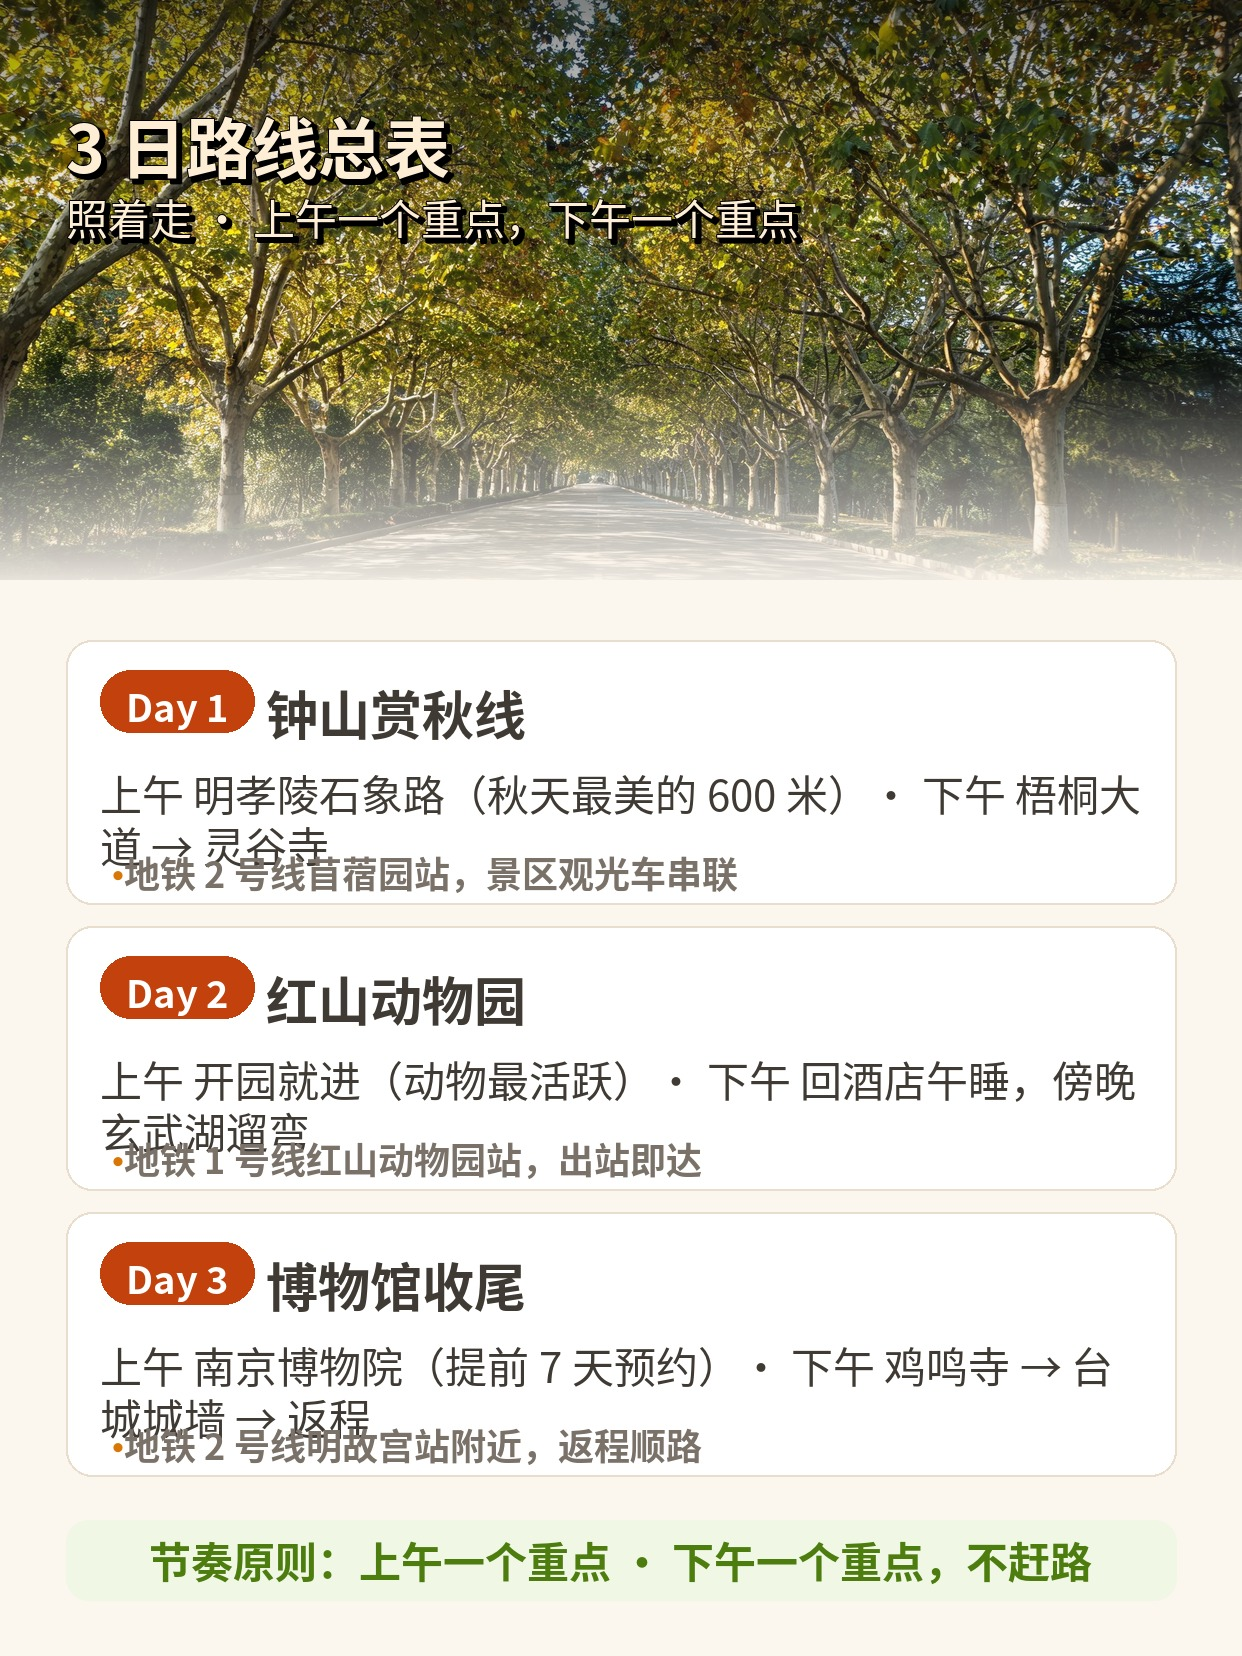
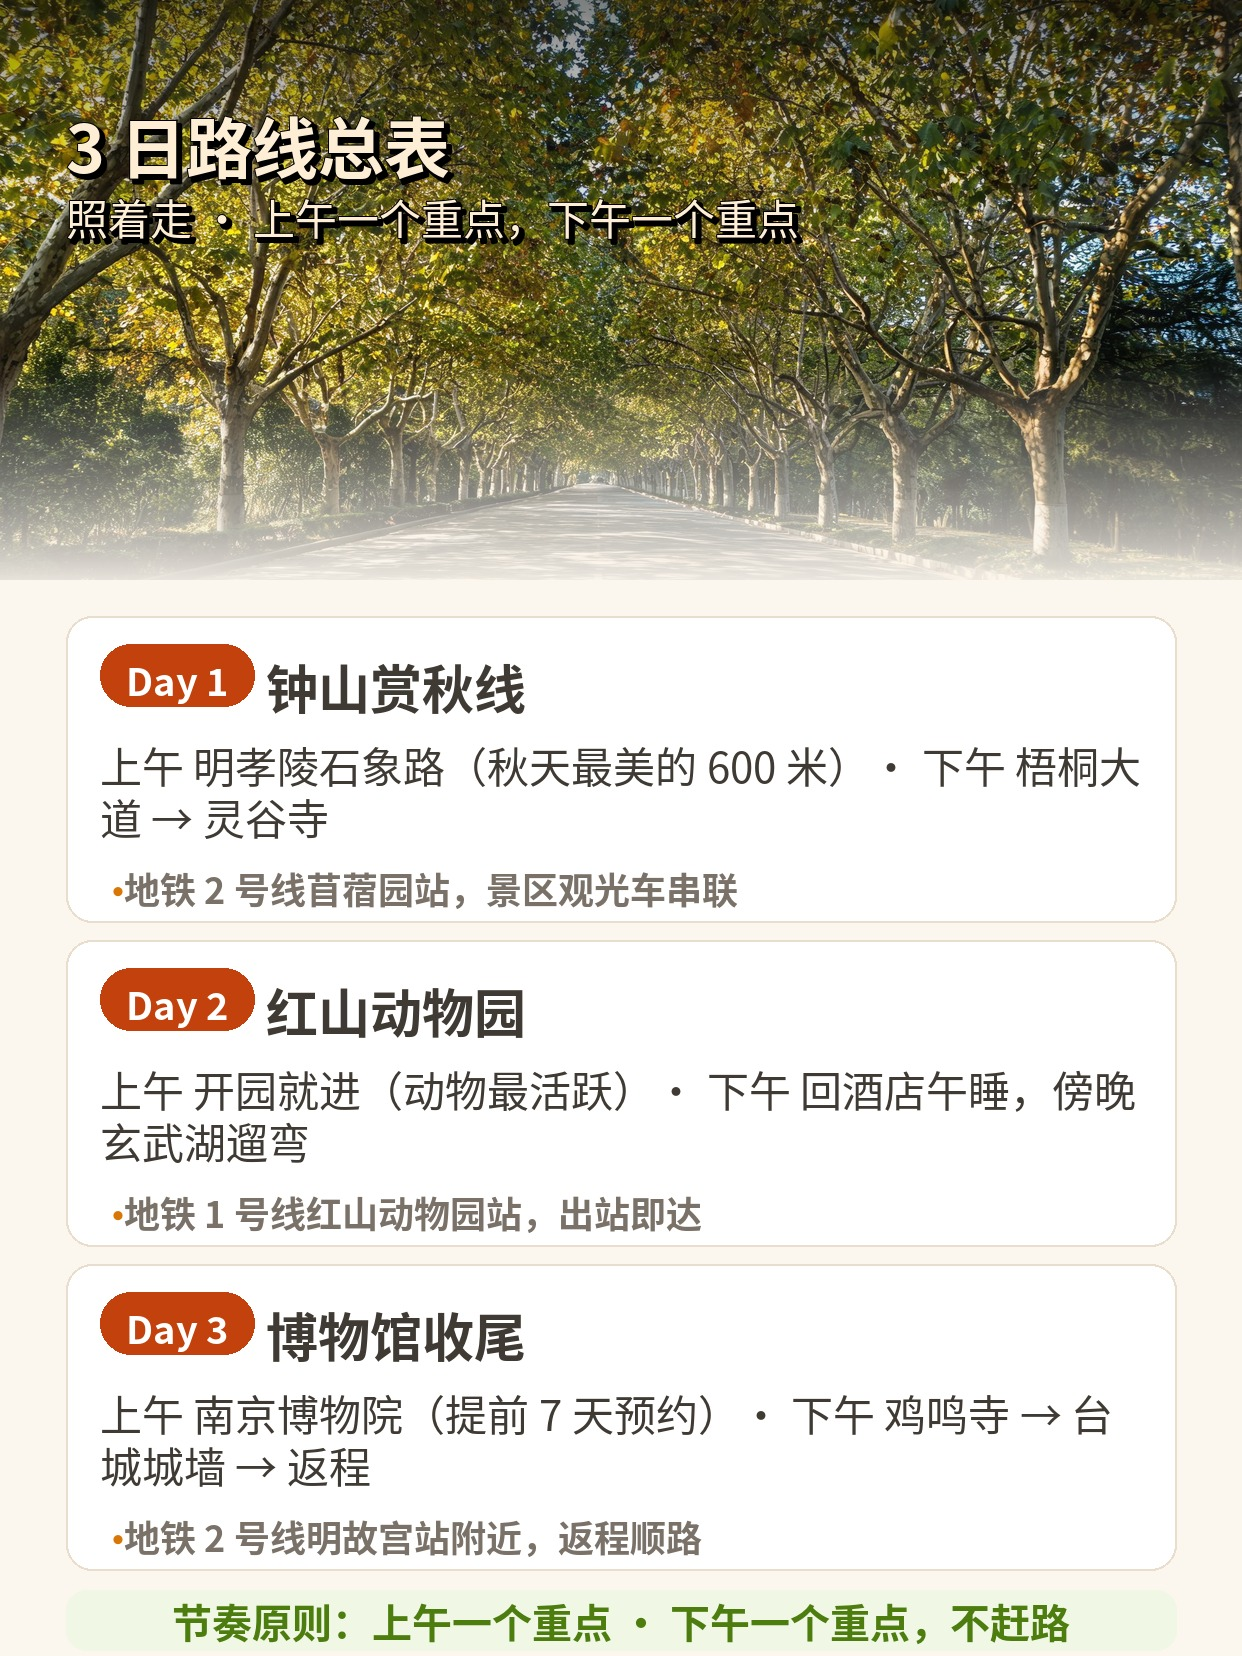
feat: 小红书笔记仿写Agent方案

diff --git a/poc/production/gen_images.py b/poc/production/gen_images.py
@@ -121,18 +121,18 @@ def gen_itinerary():
         ("Day 3", "博物馆收尾", "上午 南京博物院（提前 7 天预约）· 下午 鸡鸣寺 → 台城城墙 → 返程",
          "地铁 2 号线明故宫站附近，返程顺路"),
     ]
-    y = 640
+    y = 616
     for tag, theme, content, traffic in days:
-        d.rounded_rectangle([MARGIN, y, W - MARGIN, y + 264], radius=26, fill=CARD, outline=LINE, width=2)
-        pill(d, MARGIN + 34, y + 30, tag, F(38, True), (255, 255, 255), MAPLE)
-        d.text((MARGIN + 200, y + 34), theme, font=F(52), fill=DARK)
-        wrap(d, MARGIN + 34, y + 122, content, F(42, False), DARK, W - MARGIN * 2 - 68, max_lines=2)
-        d.text((MARGIN + 34, y + 208), "🚇 " if False else "· ", font=F(36), fill=GOLD)
-        d.text((MARGIN + 58, y + 206), traffic, font=F(36), fill=GRAY)
-        y += 286
+        d.rounded_rectangle([MARGIN, y, W - MARGIN, y + 306], radius=26, fill=CARD, outline=LINE, width=2)
+        pill(d, MARGIN + 34, y + 28, tag, F(38, True), (255, 255, 255), MAPLE)
+        d.text((MARGIN + 200, y + 32), theme, font=F(52), fill=DARK)
+        wrap(d, MARGIN + 34, y + 118, content, F(42, False), DARK, W - MARGIN * 2 - 68, max_lines=2)
+        d.text((MARGIN + 34, y + 248), "· ", font=F(36), fill=GOLD)
+        d.text((MARGIN + 58, y + 246), traffic, font=F(36), fill=GRAY)
+        y += 324
 
-    d.rounded_rectangle([MARGIN, 1520, W - MARGIN, 1600], radius=22, fill=(240, 247, 228))
-    d.text((W / 2, 1560), "节奏原则：上午一个重点 · 下午一个重点，不赶路", font=F(42), fill=LEAF, anchor="mm")
+    d.rounded_rectangle([MARGIN, 1590, W - MARGIN, 1650], radius=20, fill=(240, 247, 228))
+    d.text((W / 2, 1620), "节奏原则：上午一个重点 · 下午一个重点，不赶路", font=F(40), fill=LEAF, anchor="mm")
     img.save(os.path.join(OUT, "itinerary.jpg"), quality=92)
 
 
@@ -153,20 +153,17 @@ def gen_spots():
     ]
     y = 204
     for img_name, name, tag, rows in spots:
-        d.rounded_rectangle([MARGIN, y, W - MARGIN, y + 430], radius=26, fill=CARD, outline=LINE, width=2)
-        paste_rounded(img, load_crop(img_name, 382, 382), (MARGIN + 34, y + 24), radius=20)
+        d.rounded_rectangle([MARGIN, y, W - MARGIN, y + 464], radius=26, fill=CARD, outline=LINE, width=2)
+        paste_rounded(img, load_crop(img_name, 382, 382), (MARGIN + 34, y + 41), radius=20)
         tx = MARGIN + 456
-        d.text((tx, y + 40), name, font=F(52), fill=DARK)
-        pill(d, tx + F(52).getlength(name) + 22, y + 44, tag, F(34, True), AMBER, (253, 236, 213))
-        ry = y + 136
+        d.text((tx, y + 38), name, font=F(52), fill=DARK)
+        pill(d, tx + F(52).getlength(name) + 22, y + 42, tag, F(34, True), AMBER, (253, 236, 213))
+        ry = y + 130
         for label, content in rows:
             d.text((tx, ry), label, font=F(36), fill=GOLD)
-            ry = wrap(d, tx, ry + 52, content, F(40, False), DARK, W - MARGIN - 34 - tx, max_lines=2) + 14
-        d.text((tx, y + 388), "门票/预约以官方渠道为准", font=F(32, False), fill=GRAY)
-        y += 450
+            ry = wrap(d, tx, ry + 48, content, F(40, False), DARK, W - MARGIN - 34 - tx, max_lines=2) + 20
+        y += 478
 
-    d.rounded_rectangle([MARGIN, 1566, W - MARGIN, 1636], radius=20, fill=(253, 236, 213))
-    d.text((W / 2, 1601), "以上为规划参考，开放时间以各官方渠道实时为准", font=F(36), fill=AMBER, anchor="mm")
     img.save(os.path.join(OUT, "spots.jpg"), quality=92)
 
 
